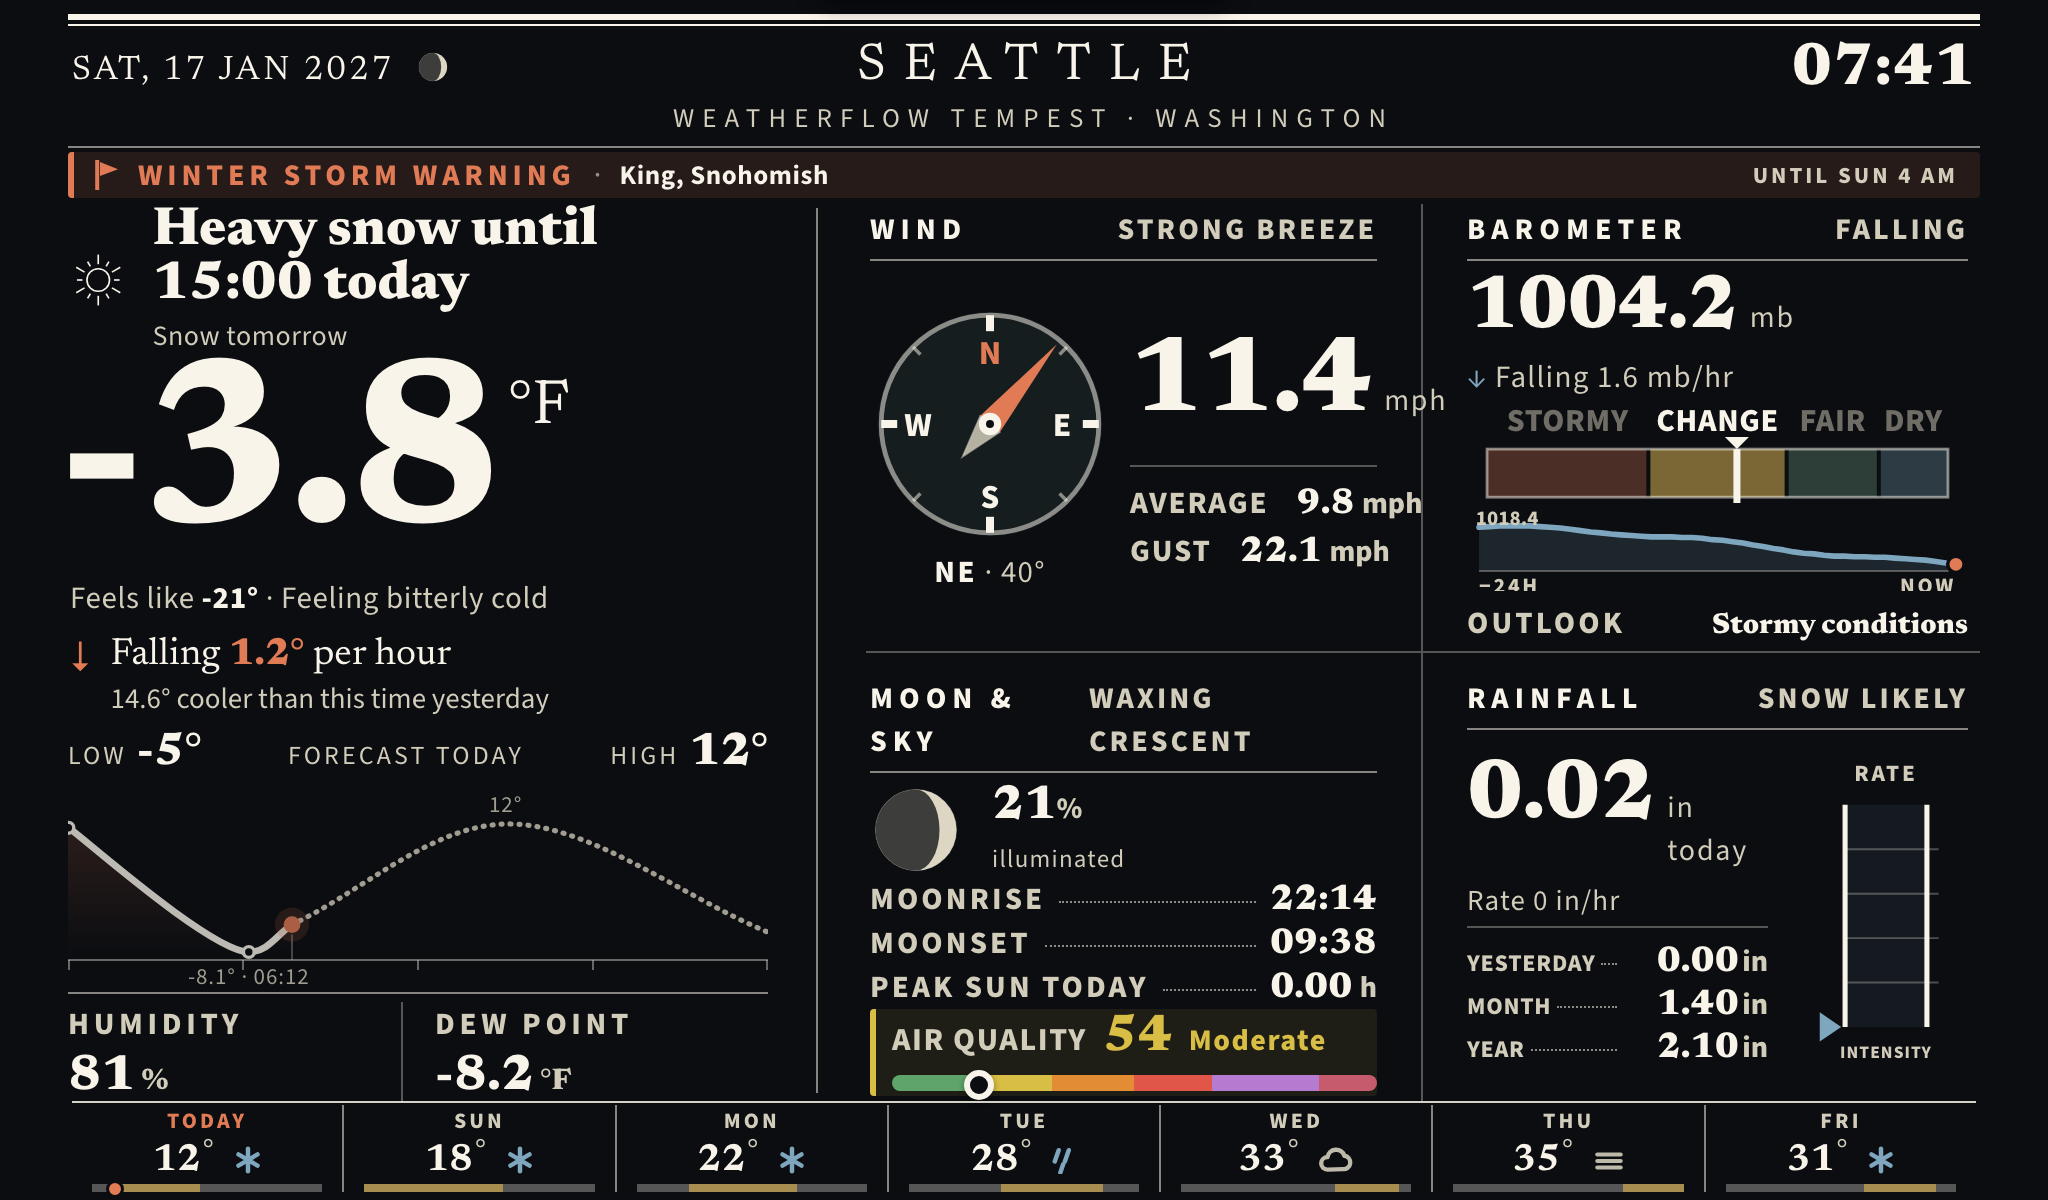
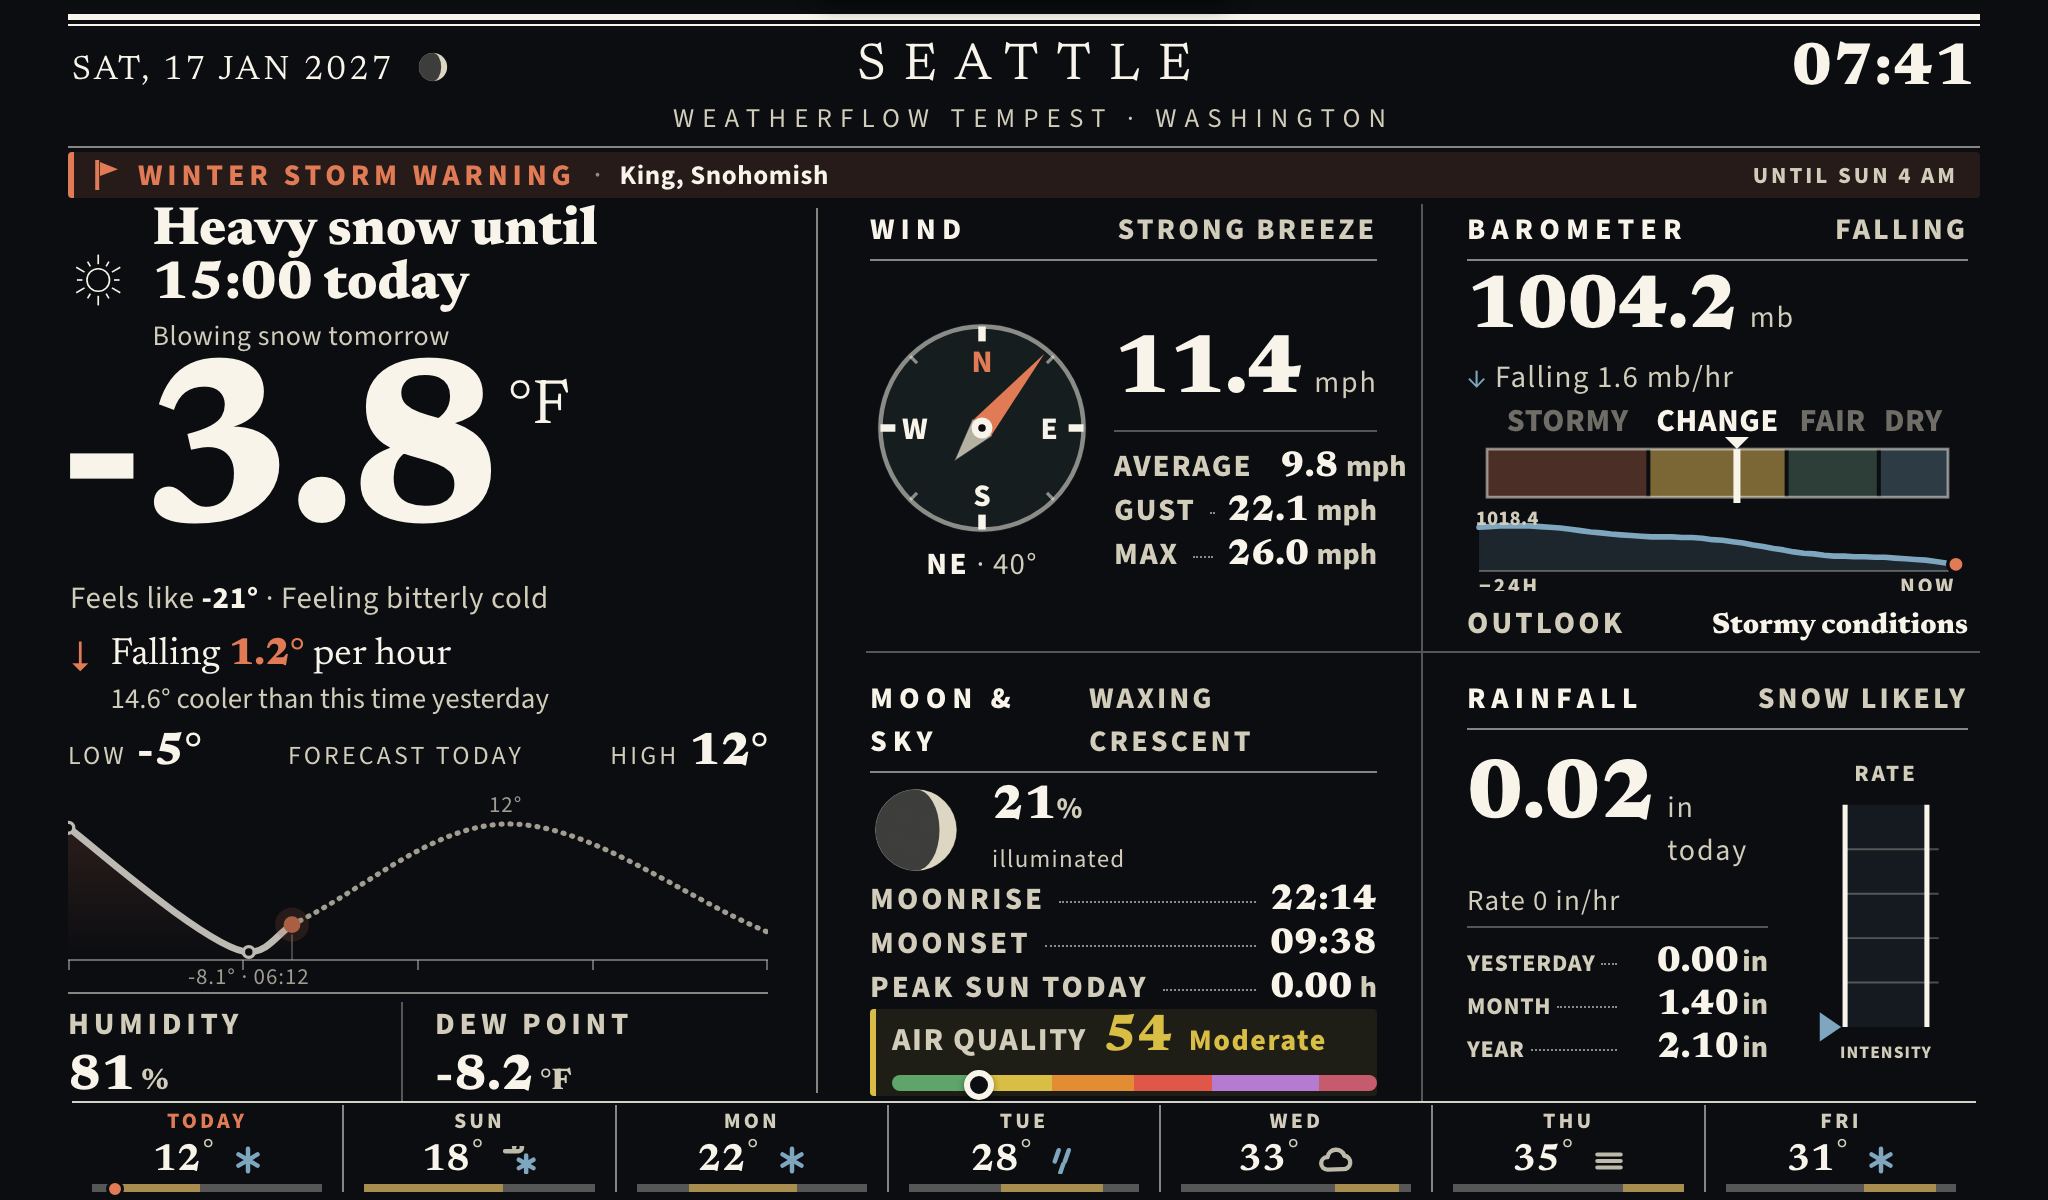
docs: wind GIF, MAX row, and compound marks in the visuals
Second animation where motion is the story: a wind-panel GIF - the vane
swinging the short way around the dial while readings count to their new
values, with the new MAX row in frame. The caption states the house
rule: forecast furniture holds still; on this console motion means now.
Hero and winter screenshots regenerated with the MAX gust row and the
compound marks (wind-driven rain in the showcase week, blowing snow in
the winter one, each with its compound tomorrow hint). Bullets list the
nine-mark glyph roster. Seattle sample data throughout.

Claude-Session: https://claude.ai/code/session_0151njDYwvvtFuoSwih6FByU

Changed region(s): [[0.4375, 0.2467, 0.6875, 0.4933], [0.0625, 0.2775, 0.2188, 0.3083], [0.2188, 0.9558, 0.2812, 0.9867]]

diff --git a/README.md b/README.md
@@ -45,6 +45,12 @@ surface whose swell and drift also track the intensity:
 
 ![The rainfall panel during heavy rain: etched rain falls into the intensity gauge](design/almanac/screenshots/rainfall.gif)
 
+Everything live moves the way an instrument should: the vane swings the short
+way around the dial, and readings count to their new values instead of
+snapping. Forecast furniture holds still — on this console, motion means "now":
+
+![The wind panel: the vane swings and readings count up as the wind shifts](design/almanac/screenshots/wind.gif)
+
 Winter is a first-class citizen. A pre-dawn January morning at −3.8 °F: the
 Winter Storm Warning shares the page with a compressed 7-day outlook (snow
 glyphs, sub-zero lows on the shared axis), and the rainfall panel reads
@@ -64,8 +70,8 @@ What it changes:
 - A barometer zone bar (Stormy / Change / Fair / Dry) and a 24-hour pressure barograph labelled with the day's high and low.
 - Active weather alerts (US National Weather Service) in a single strip below the masthead, coloured by severity and collapsed to one line when several are active. The 7-day outlook stays on screen through an alert (compressed to highs and bars) — a winter storm warning can run for days, exactly when the week ahead matters most.
 - Air quality (AQI) by the station's own latitude and longitude, with a short forecast so a rising smoke event shows before the number climbs.
-- A 7-day outlook band: each day's low–high drawn as a bar on ONE shared axis for the week (so a cool-down is visibly a shorter, lower bar), condition glyphs beside the highs — sun, cloud, fog, rain, snow, thunderstorm, and wind (a dry day gusting ≥45 km/h is a wind story; precipitation always outranks it) — precipitation probability only when it matters, and today's bar carrying a dot at the observed temperature.
-- A one-line hint about tomorrow under the conditions headline ("Rain tomorrow", "Freezing rain tomorrow", "Windy tomorrow"…) that appears only when tomorrow is a story — its absence is the fair-weather signal.
+- A 7-day outlook band: each day's low–high drawn as a bar on ONE shared axis for the week (so a cool-down is visibly a shorter, lower bar), condition glyphs beside the highs — sun, cloud, fog, rain, snow, thunderstorm, wind, and the compound marks wind-driven rain and blowing snow (a gusty wet day keeps its water but the drops slant to the engraver's driving-rain angle behind a wind curl) — precipitation probability only when it matters, and today's bar carrying a dot at the observed temperature.
+- A one-line hint about tomorrow under the conditions headline ("Rain tomorrow", "Wind-driven rain tomorrow", "Freezing rain tomorrow", "Blowing snow tomorrow"…) that appears only when tomorrow is a story — its absence is the fair-weather signal.
 - A rainfall rate gauge scaled by intensity rather than linearly — the five named bands (Very Light through Very Heavy) each take an equal fifth of the tube, so drizzle registers and a downpour doesn't pin the needle.
 - A wind panel that resolves to one current reading, with a bolder compass.
 - Animated updates: values count up, the vane swings — and while rain falls, etched rain falls through the gauge into a waving water surface, with fall speed, density, swell, and drift all tracking the measured rate.
